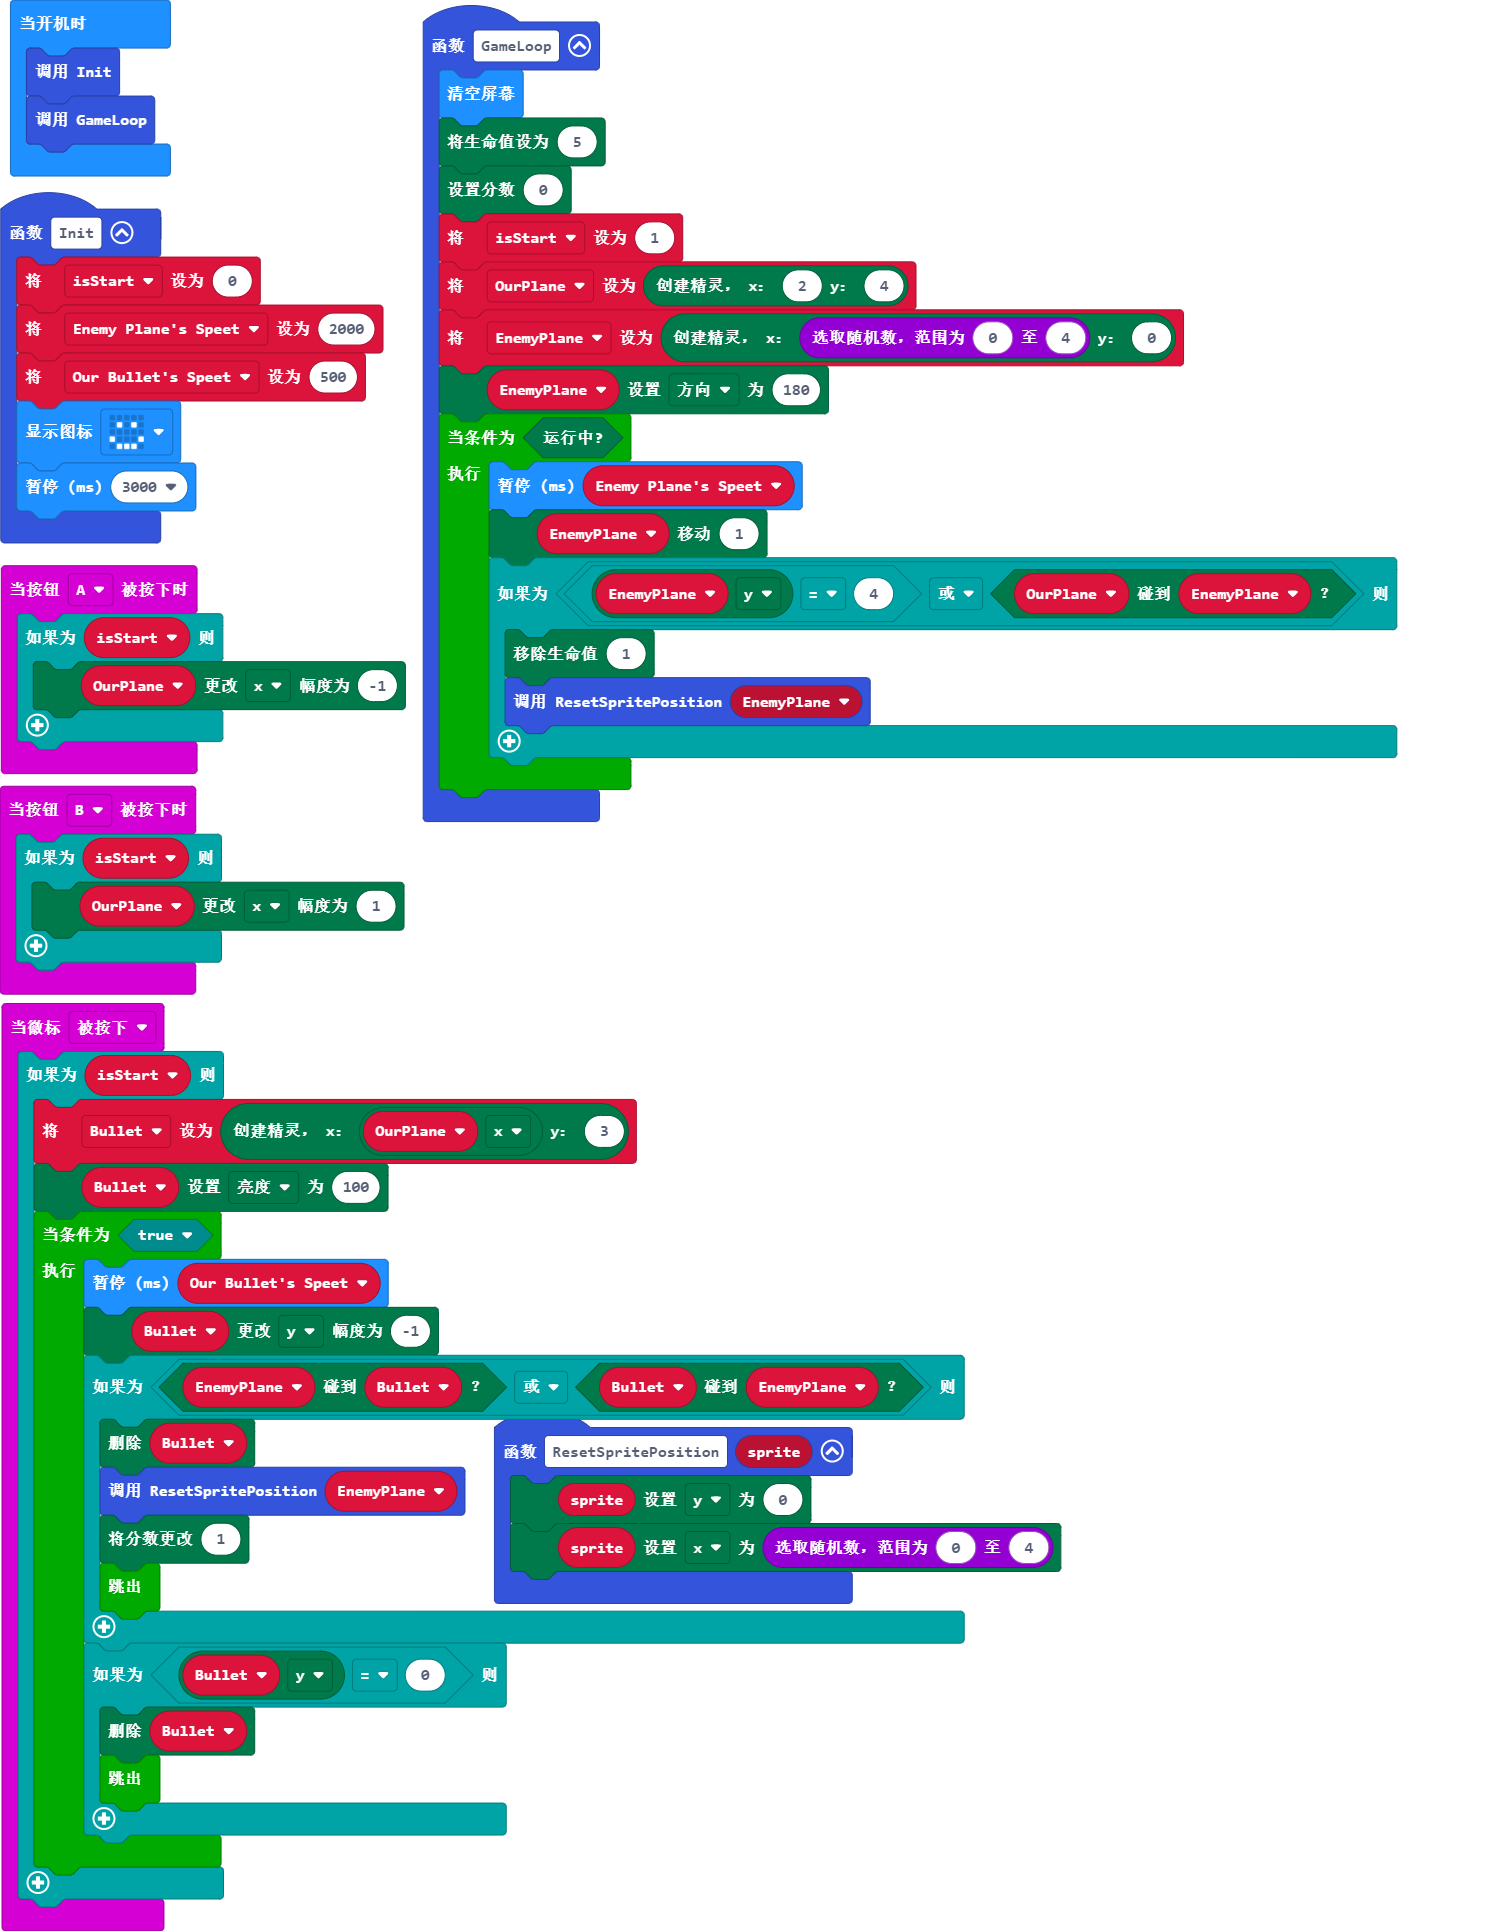
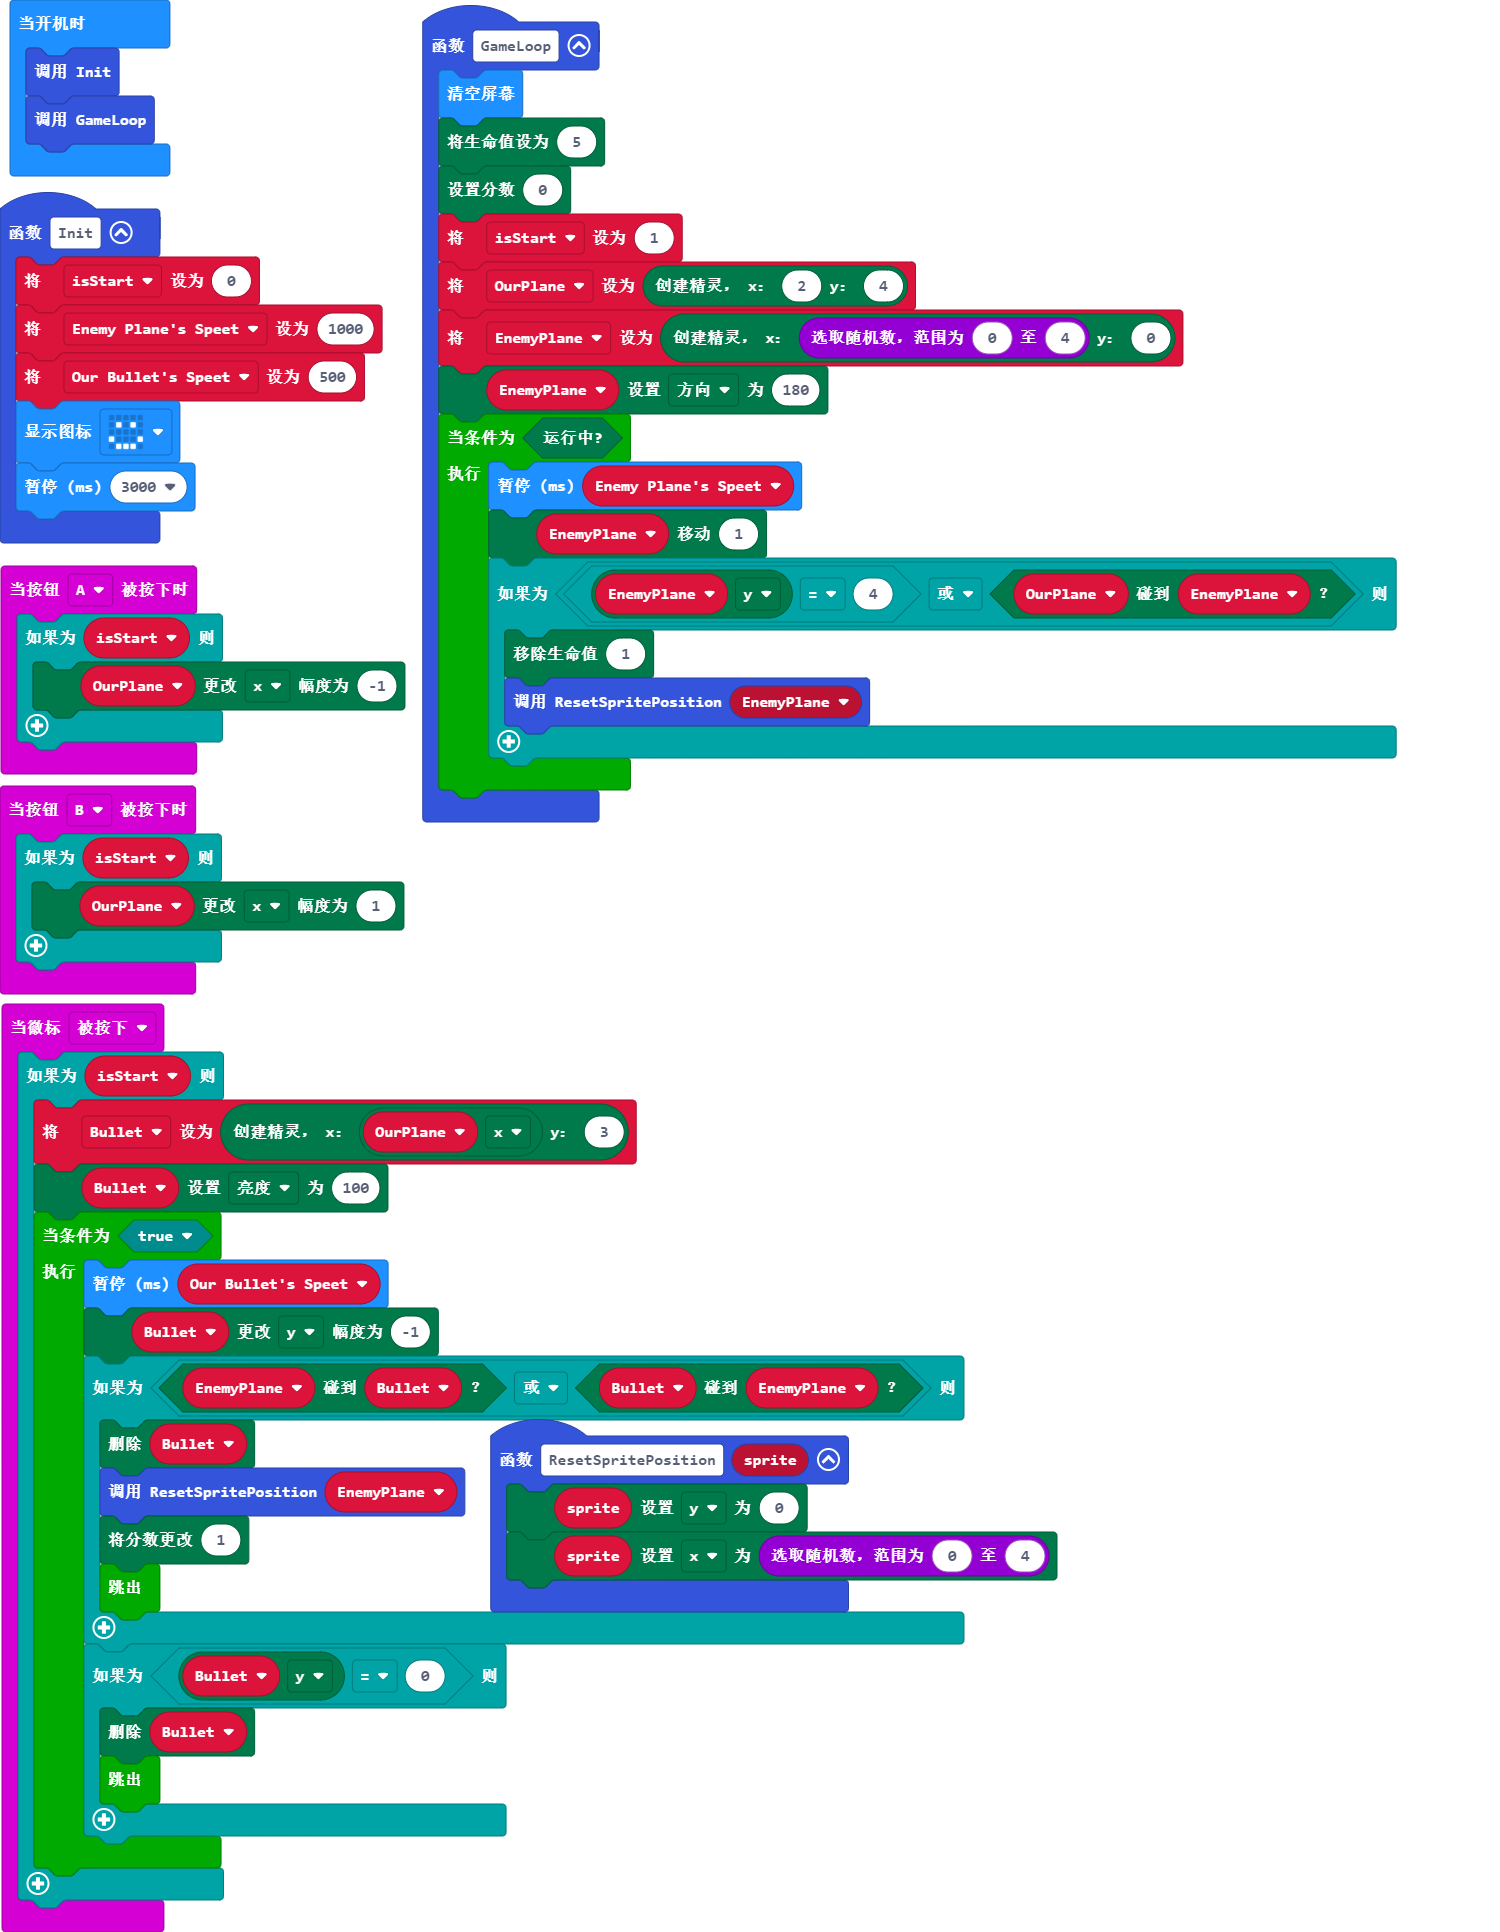
更新 main.blocks, main.ts

diff --git a/main.ts b/main.ts
@@ -34,7 +34,7 @@ input.onButtonPressed(Button.B, function () {
 })
 function Init () {
     isStart = 0
-    Enemy_Planes_Speet = 2000
+    Enemy_Planes_Speet = 1000
     Our_Bullets_Speet = 500
     basic.showIcon(IconNames.Happy)
     basic.pause(3000)
